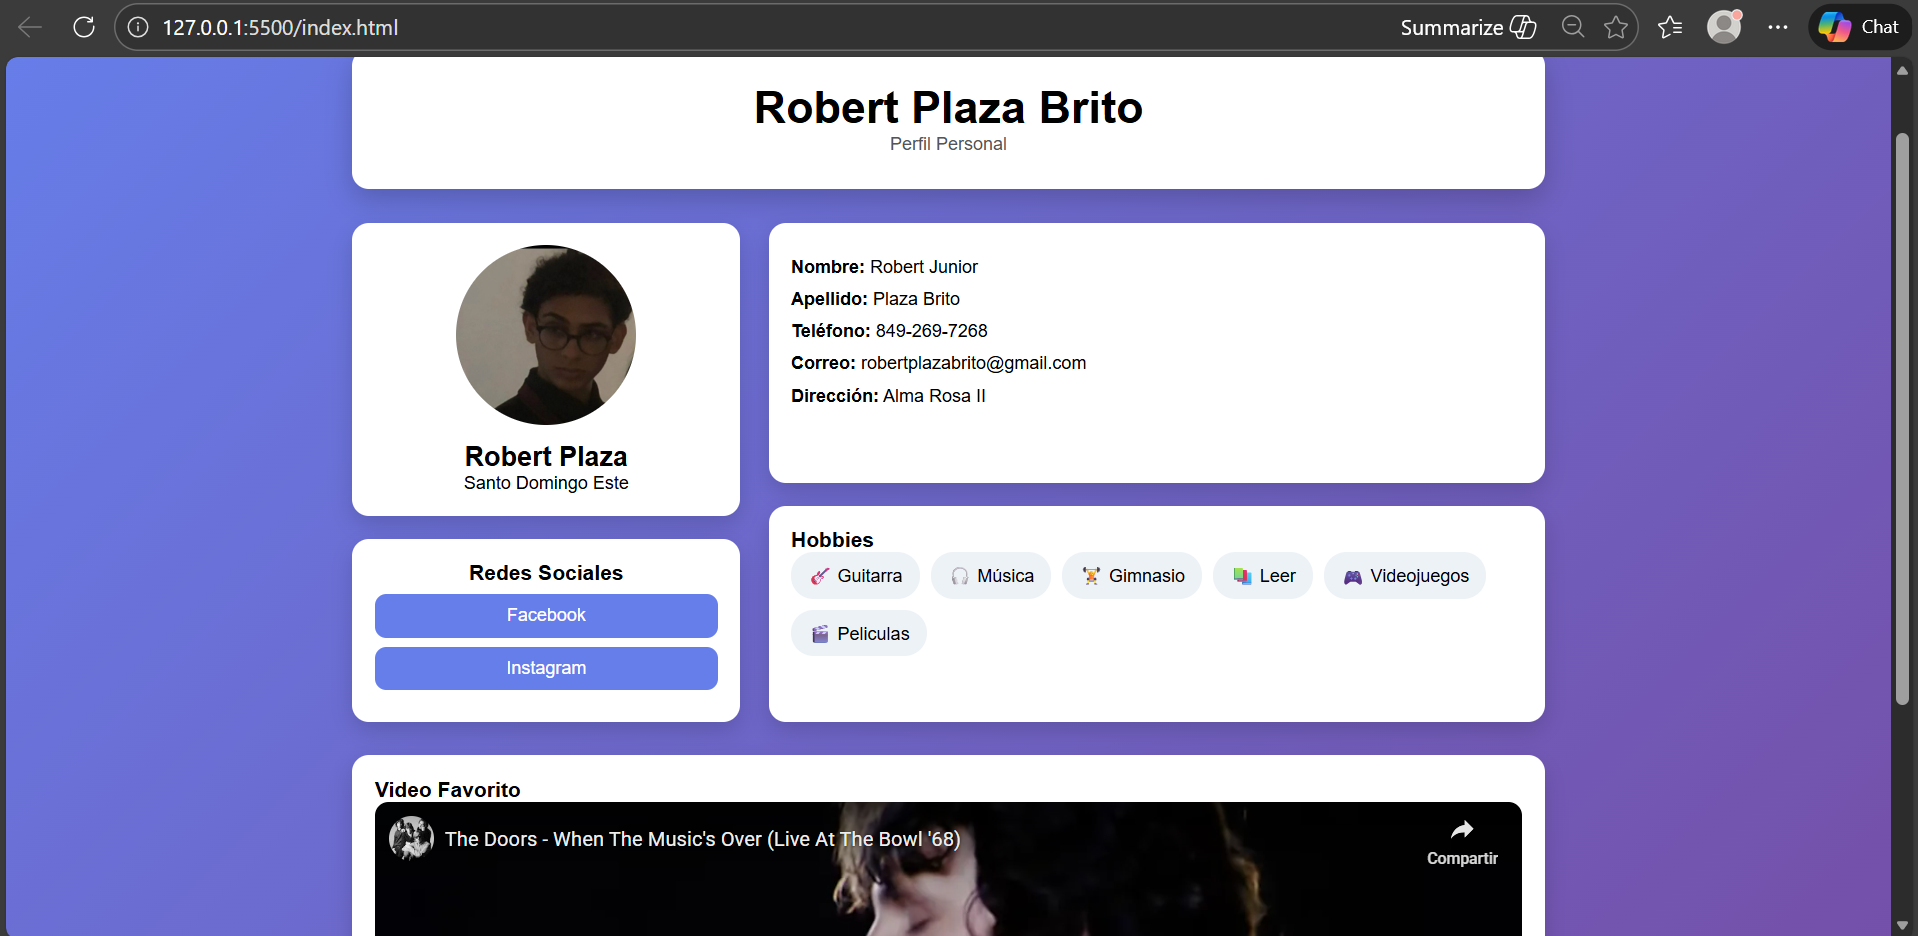
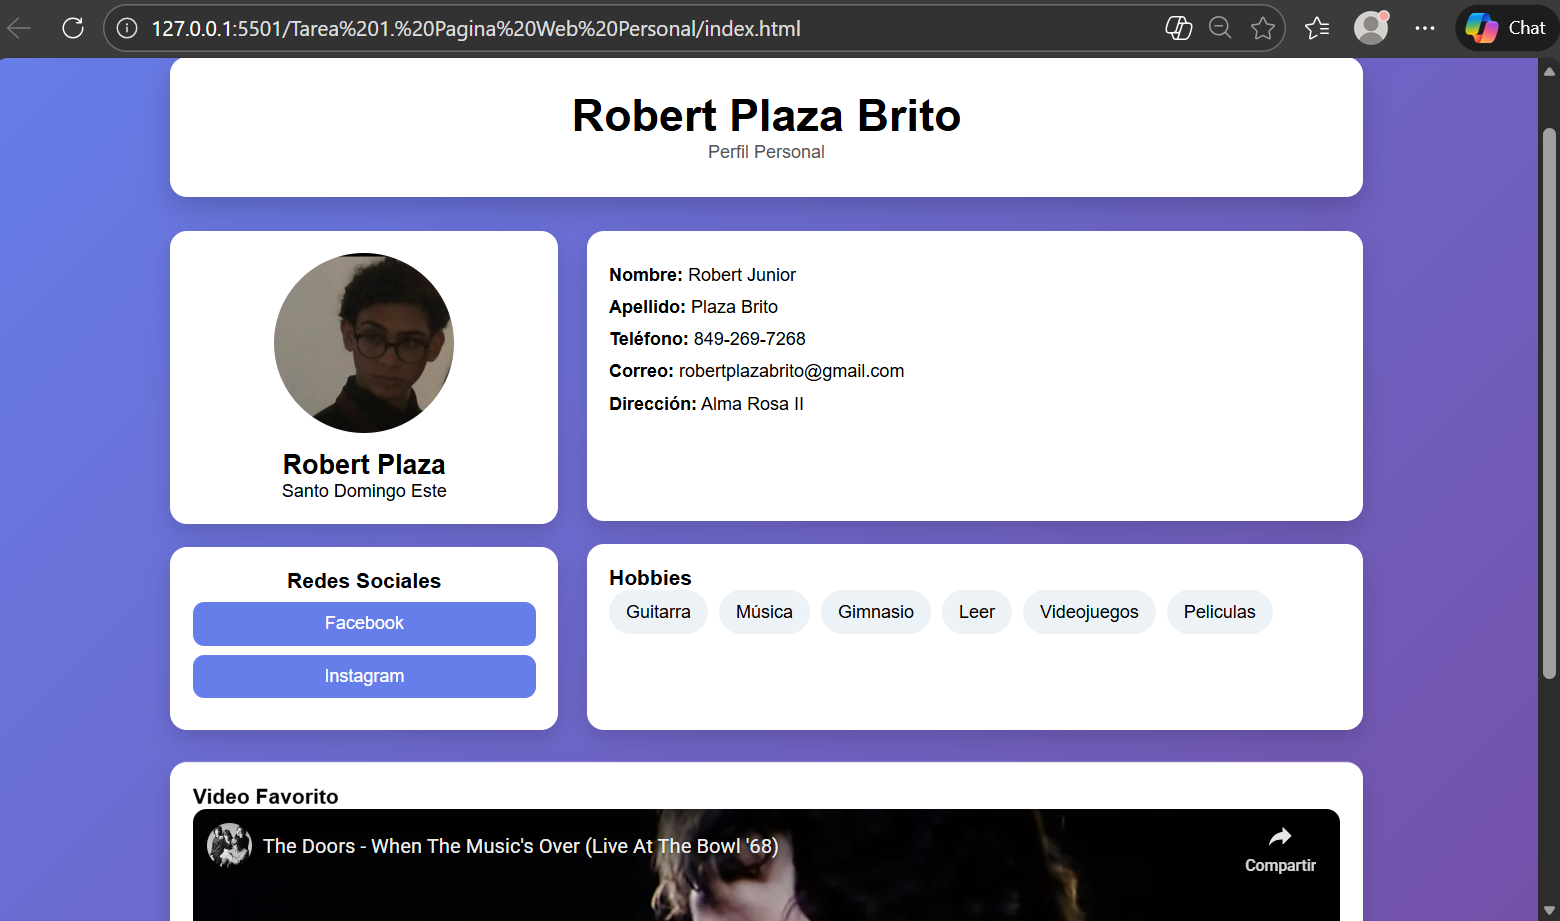
Corregi un error en la imagen

diff --git a/Tarea 1. Pagina Web Personal/index.html b/Tarea 1. Pagina Web Personal/index.html
@@ -51,12 +51,12 @@
             <div class="card">
                 <h3>Hobbies</h3>
                 <div class="hobbies">
-                    <span>🎸 Guitarra</span>
-                    <span>🎧 Música</span>
-                    <span>🏋 Gimnasio</span>
-                    <span> 📚 Leer </span>
-                    <span> 🎮 Videojuegos </span>
-                    <span> 🎬 Peliculas </span>
+                    <span>Guitarra</span>
+                    <span>Música</span>
+                    <span>Gimnasio</span>
+                    <span>Leer </span>
+                    <span>Videojuegos </span>
+                    <span>Peliculas </span>
                 </div>
             </div>
 
